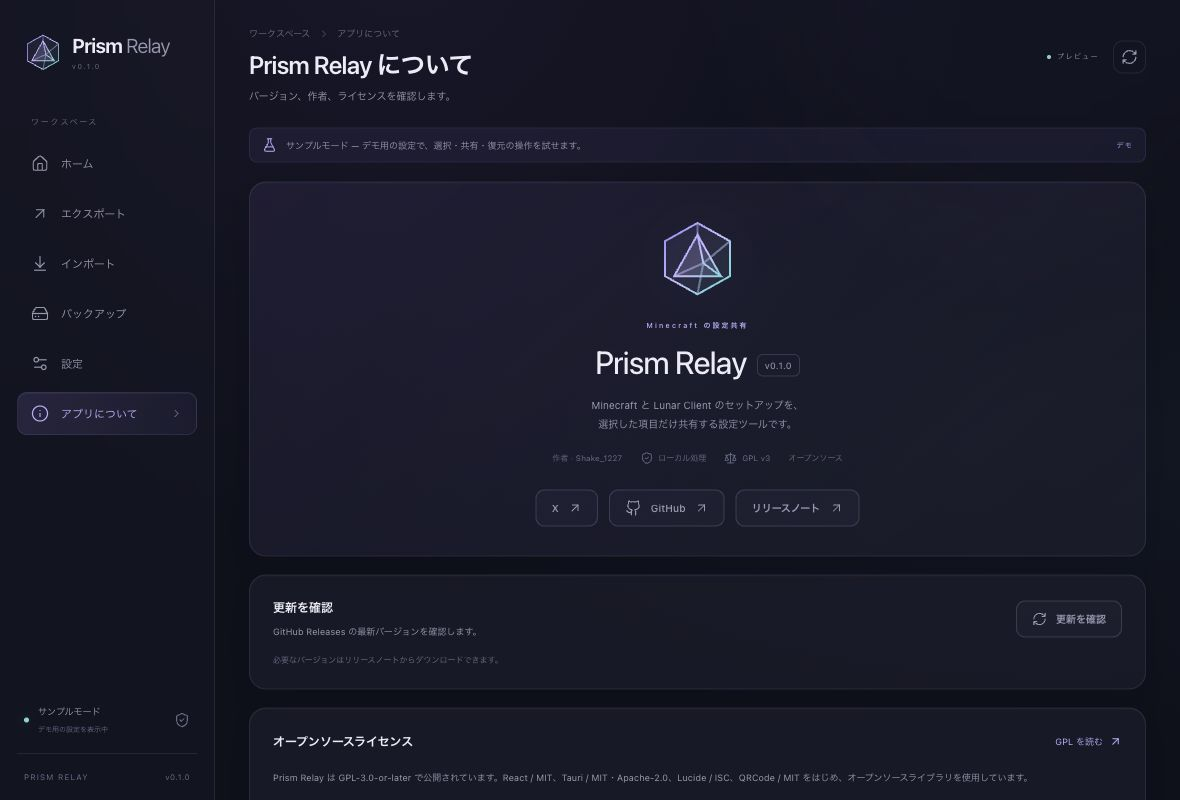
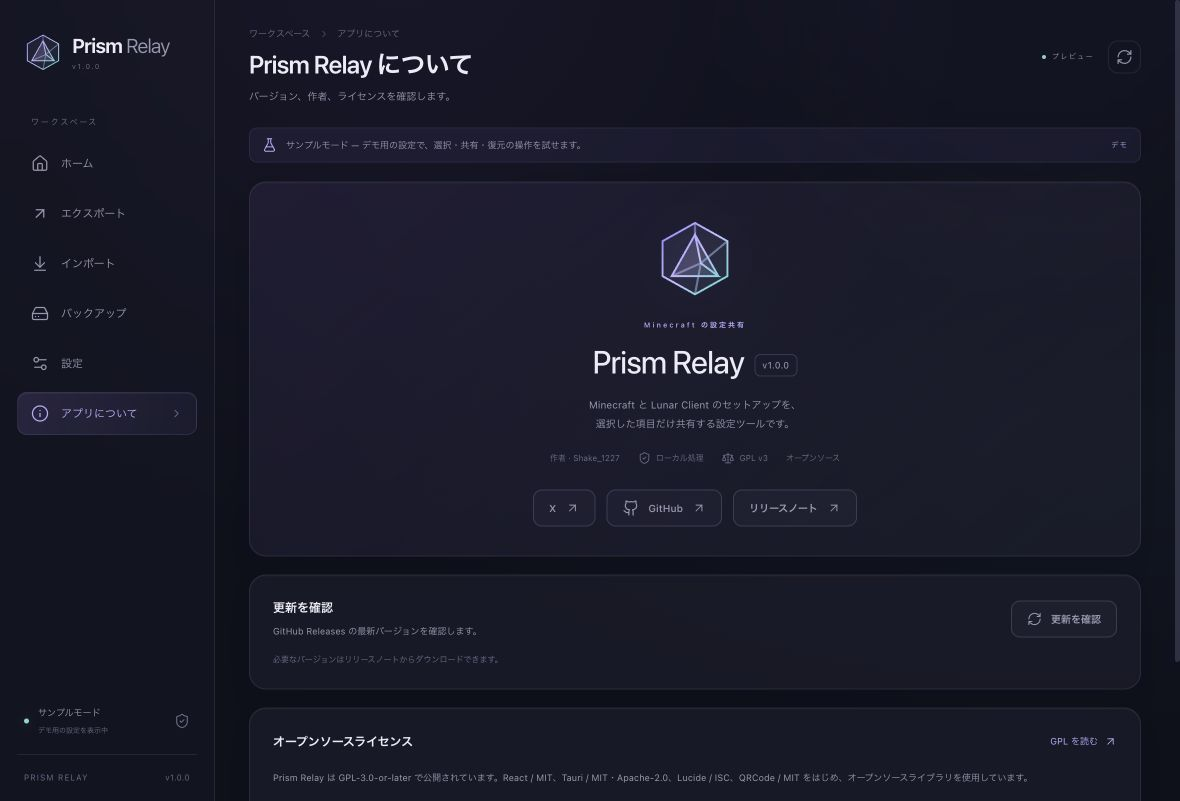
Prepare the first release as v1.0.0

diff --git a/src/services/backend.ts b/src/services/backend.ts
@@ -1,5 +1,6 @@
 import { invoke } from "@tauri-apps/api/core";
 import { open, save } from "@tauri-apps/plugin-dialog";
+import { APP_VERSION } from "../version";
 import type {
   AppInfo,
   BackupManifest,
@@ -85,7 +86,7 @@ export const backend = {
       ? invoke<AppInfo>("get_app_info")
       : Promise.resolve({
           name: "Prism Relay",
-          version: "0.1.0",
+          version: APP_VERSION,
           platform: "Sample",
           repository: "https://github.com/SHake1227/prism-relay",
           license: "GPL-3.0-or-later",
@@ -94,8 +95,8 @@ export const backend = {
     isDesktop
       ? invoke<UpdateInfo>("check_updates")
       : Promise.resolve({
-          currentVersion: "0.1.0",
-          latestVersion: "0.1.0",
+          currentVersion: APP_VERSION,
+          latestVersion: APP_VERSION,
           updateAvailable: false,
           releaseUrl: "https://github.com/SHake1227/prism-relay/releases",
         }),

diff --git a/src/App.tsx b/src/App.tsx
@@ -23,6 +23,7 @@ import type {
   Preferences,
 } from "./models";
 import { backend, isDesktop } from "./services/backend";
+import { APP_VERSION } from "./version";
 import { usePreferences } from "./hooks/usePreferences";
 import { PrismMark } from "./components/PrismMark";
 import { ErrorBanner } from "./components/ErrorBanner";
@@ -102,7 +103,7 @@ function WorkspaceApp({
   const [backups, setBackups] = useState<BackupManifest[]>([]);
   const [info, setInfo] = useState<AppInfo>({
     name: "Prism Relay",
-    version: "0.1.0",
+    version: APP_VERSION,
     platform: "",
     repository: "https://github.com/SHake1227/prism-relay",
     license: "GPL-3.0-or-later",

diff --git a/src/services/demo.ts b/src/services/demo.ts
@@ -9,6 +9,7 @@ import type {
   Setting,
   ShareMetadata,
 } from "../models";
+import { APP_VERSION } from "../version";
 
 const fields: [string, string, string, JsonValue][] = [
   ["Video", "Display", "FOV", 90],
@@ -157,7 +158,7 @@ export function encodeDemo(
 ): EncodedShare {
   const payload: DecodedShare = {
     formatVersion: 1,
-    applicationVersion: "0.1.0",
+    applicationVersion: APP_VERSION,
     createdAt: "2026-09-30T03:24:00Z",
     metadata,
     settings,

diff --git a/src/version.ts b/src/version.ts
@@ -1,0 +1,3 @@
+import { version } from "../package.json";
+
+export const APP_VERSION = version;

diff --git a/docs/lunar-schema.md b/docs/lunar-schema.md
@@ -1,6 +1,6 @@
 # Verified Lunar configuration schema
 
-Prism Relay 0.1.0 inspected the key names and JSON types of locally installed Lunar game settings on 2026-09-30. The inspection was read-only. No account or authentication files were opened. No real values were copied into this repository, fixtures, logs, or share codes.
+Prism Relay 1.0.0 inspected the key names and JSON types of locally installed Lunar game settings on 2026-09-30. The inspection was read-only. No account or authentication files were opened. No real values were copied into this repository, fixtures, logs, or share codes.
 
 The verified layout is `.lunarclient/settings/game/<profile>/`, containing `mods.json`, `general.json`, `controls.json`, and `performance.json`. Minecraft option files were also present at `.lunarclient/profiles/<version>/options.txt`. The installed options files used modern `key.keyboard.*` binding values and contained Lunar `key_Freelook` and OptiFine `key_of.key.zoom` bindings. The parser also accepts bounded legacy numeric key codes. Profiles and version folders are discovered locally; the scanner does not assume that a particular profile or version exists. A manually selected game settings folder or individual profile is supported.
 

diff --git a/README.md b/README.md
@@ -111,7 +111,7 @@ npm run tauri build
 
 Windows では MSI とセットアップ EXE、macOS ではアプリと DMG を生成します。GitHub Actions でも4種類の環境でテストとビルドを実行します。
 
-`v0.1.0` のようなタグを Push すると、インストーラー、対応するソース、`SHA256SUMS.txt` を GitHub Releases に公開します。依存ライブラリを更新した際は `python3 scripts/generate-notices.py` でライセンス通知を更新してください。
+`v1.0.0` のようなタグを Push すると、インストーラー、対応するソース、`SHA256SUMS.txt` を GitHub Releases に公開します。依存ライブラリを更新した際は `python3 scripts/generate-notices.py` でライセンス通知を更新してください。
 
 ビルド成果物、既知のゲーム設定・認証ファイル、バックアップ、証明書は `.gitignore` の対象です。リポジトリには開発用のソースと合成テストデータを置いています。
 

diff --git a/SECURITY.md b/SECURITY.md
@@ -6,4 +6,4 @@ Review the import differences and close the game before applying changes. Backup
 
 Report security issues through the repository's private vulnerability reporting feature when available. Include a minimal synthetic example and reproduction steps. Do not include account files, tokens, user backups or private configuration.
 
-Version 0.1.x is the currently supported release series. The scanner intentionally refuses unverified fields and formats. A successful checksum is not evidence that a sender is trusted.
+Version 1.0.x is the currently supported release series. The scanner intentionally refuses unverified fields and formats. A successful checksum is not evidence that a sender is trusted.

diff --git a/docs/release-notes.md b/docs/release-notes.md
@@ -1,4 +1,4 @@
-# Prism Relay 0.1.0
+# Prism Relay 1.0.0
 
 MinecraftとLunar Clientの設定を、共有コードで別のPCへ持ち運べるアプリです。共有する項目を選び、適用前に差分を確認できます。
 
